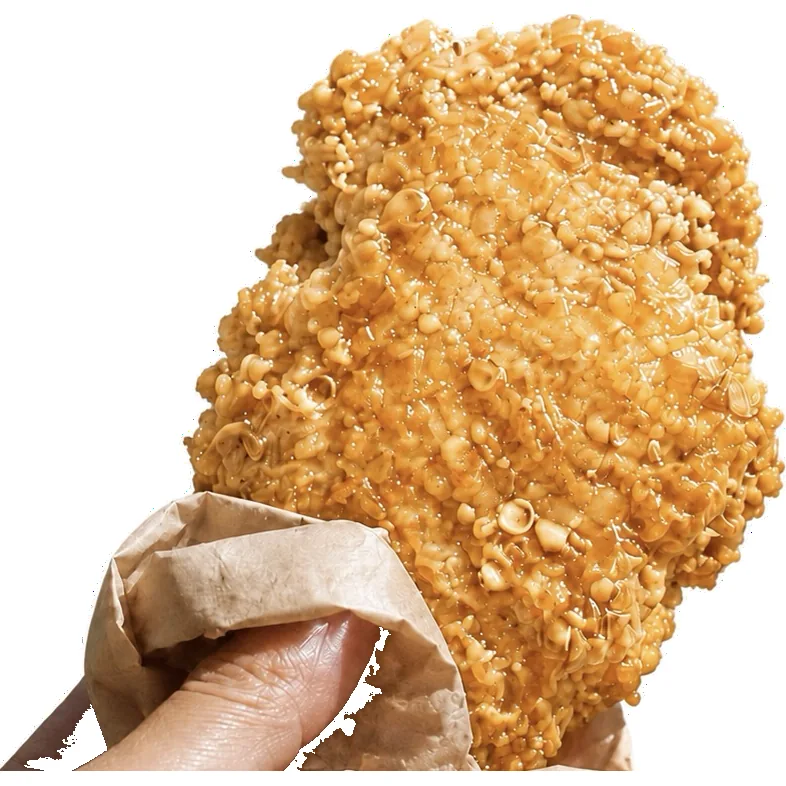
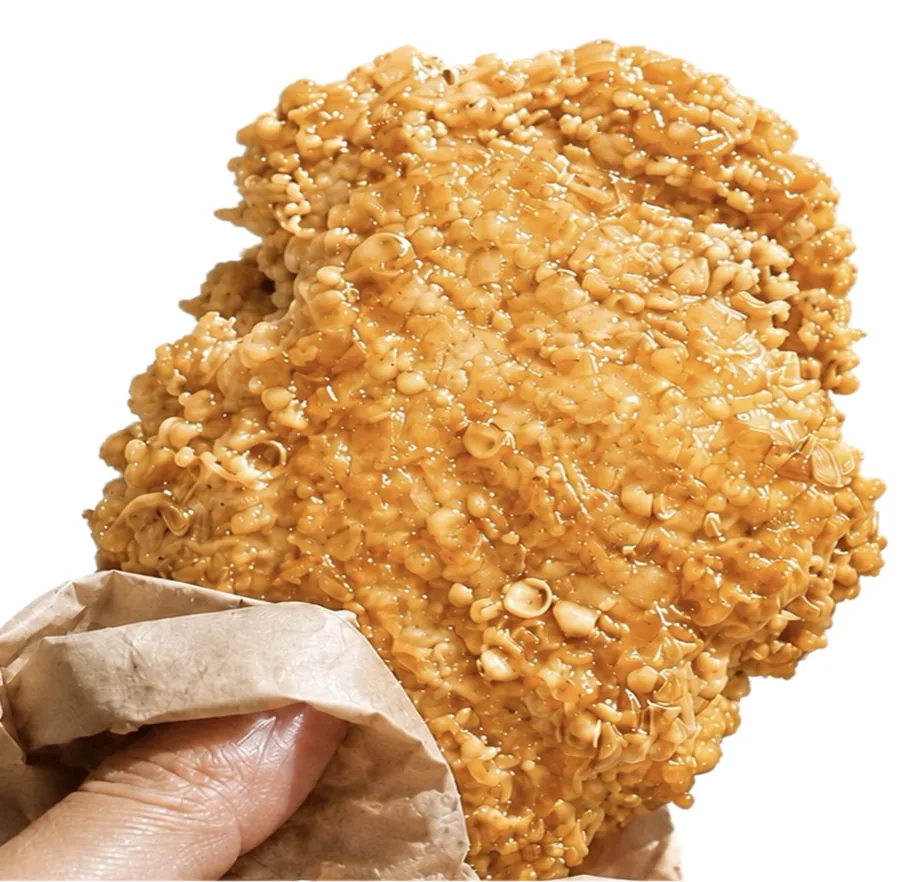
フライドチキン画像差し替え(白背景)／場内エリアの店番号・会場図番号を連番に修正

diff --git a/gourmet-goods-26-27/gourmet.html b/gourmet-goods-26-27/gourmet.html
@@ -526,7 +526,7 @@ footer .em{width:30px; height:30px; margin:0 auto 6px;
 <div id="lb"><span class="x">×</span><div class="box"><div class="big"><div class="demoji"><span>🍧</span></div></div><div class="lbcap" id="lbnm"></div></div></div>
 
 <script>
-const DATA = {"match":{"date":"2026-09-05","kickoff":"19:00","opponent":"高知ユナイテッドSC","venue":"カンセキスタジアムとちぎ","short":"高知"},"hasGoods":true,"goodsReady":false,"hours":{"outside":"15:30〜試合終了","inside":"16:30〜試合終了","cashless":true},"note":"販売エリアは完全キャッシュレス（現金不可）。企画メニューの画像・説明文の出典＝出店店舗の申請書（9/5高知戦）。","sections":[{"key":"stamina","name":"スタミナグルメ","banner":"assets/img/g_bn_stamina.webp"},{"key":"festival","name":"夏祭り","banner":"assets/img/g_bn_natsumatsuri.webp"},{"key":"standard","name":"定番メニュー"}],"items":[{"id":"g1","name":"にんにくマシマシ味噌豚丼","price":"¥1,300","desc":"人気の味噌豚バラ丼をスタミナメニューにアレンジ！にんにくたっぷり「にんにくマシマシ味噌豚丼」で、熱い応援にパワーチャージ！","shop":"pighip","zone":"場外","area":"⑦","e":"🧄","img":"assets/img/gourmet/pighip_ninniku_misodon.webp","section":"stamina"},{"id":"g2","name":"ペンネアラビアータ","price":"¥750","desc":"にんにくたっぷり、ピリ辛の自家製トマトソースのパスタです！","shop":"Sports Café 92","zone":"場外","area":"③","e":"🌶","img":"assets/img/gourmet/sc92_penne.webp","section":"stamina"},{"id":"g3","name":"勝つミートソースパスタ","price":"¥1,111","desc":"勝つしかない！自家製本格ボロネーゼに、豚肉を薄く叩いてチーズ入りパン粉を付けソテーしたミラノ風カツレツを！限定10食！","shop":"Sports Café 92","zone":"場外","area":"③","e":"🍝","img":"assets/img/gourmet/sc92_katsu_meat.webp","section":"stamina"},{"id":"g4","name":"トマトとツナのジェノベーゼパスタ","price":"¥750","desc":"本日の限定パスタは、高知といえばカツオということで、ツナ（カツオ）を自家製バジリコソースで！フレッシュトマトを添えて対戦相手のチームカラーに仕上げました！","shop":"Sports Café 92","zone":"場外","area":"③","e":"🍝","img":"assets/img/gourmet/sc92_genovese.webp","section":"stamina"},{"id":"g5","name":"牛串 ガーリックチップ","price":"¥1,000","desc":"イベントで人気の牛串を秘伝のタレにくぐらせ、炭火で香ばしく焼き上げた至高の一串にガーリックチップをトッピング。タレの旨味とガーリックのパンチが口いっぱいに広がります。当日限定メニュー。","shop":"フードトラック天","zone":"場外","area":"④","e":"🐄","img":"assets/img/gourmet/ten_gyu_garlic.webp","section":"stamina"},{"id":"g6","name":"ガーリックスパイス丼","price":"¥1,300","desc":"ニンニクとスパイスでガッツリ味付けした、疲れも吹き飛ぶチキン丼です！","shop":"月とスパイス","zone":"場外","area":"⑭","e":"🍛","img":"assets/img/gourmet/tsuki_garlic_don.webp","section":"stamina"},{"id":"g7","name":"ダブルガーリックバーガー","price":"¥2,500","desc":"BEEF100%パティ2枚と和風にんにく醤油＆ガーリックマヨのスタミナ満点バーガーです！","shop":"Chronic Burger","zone":"場外","area":"⑮","e":"🍔","img":"assets/img/gourmet/chronic_wgarlic.webp","section":"stamina"},{"id":"g8","name":"カルダモン香る チキンカレー","price":"¥1,000","desc":"スパイスの女王と呼ばれるカルダモンをメインスパイスに使用したカレー。マイルドなチキンカレーに仕上げました。","shop":"カリーハンズ","zone":"場内","area":"⑱","e":"🍛","img":"assets/img/gourmet/hans_chicken_curry.webp","section":"stamina"},{"id":"g9","name":"キーマポークビンダルー","price":"¥1,200","desc":"人気のポークビンダルーをキーマカレーに！ワインビネガーのシャープな酸味と、バルサミコ酢の芳醇な甘みがスパイスと重なり合い、奥行きのある味わいが広がります！","shop":"カリーハンズ","zone":"場内","area":"⑱","e":"🍛","img":"assets/img/gourmet/hans_keema.webp","section":"stamina"},{"id":"g10","name":"スパイシーソーセージ","price":"¥400","desc":"スパイスを使用したピリ辛なソーセージです。","shop":"カリーハンズ","zone":"場内","area":"⑱","e":"🌭","img":"assets/img/gourmet/hans_sausage.webp","section":"stamina"},{"id":"g11","name":"ラッシー","price":"¥400","desc":"インドで親しまれているヨーグルトと牛乳をベースにした、爽やかな酸味とすっきりとした甘みが特徴のドリンクです。","shop":"カリーハンズ","zone":"場内","area":"⑱","e":"🥭","img":"assets/img/gourmet/hans_lassi.webp","section":"stamina"},{"id":"g12","name":"パワフル勝ち点3ド","price":"¥700","desc":"ダシ醬油の勝ち点3ドに、ガツンとにんにくをトッピング。これを食べてパワーをつけて、スタジアムから熱い声援を送ってください‼","shop":"玉子屋てっちゃん","zone":"場外","area":"⑪","e":"🥚","img":"assets/img/gourmet/tama_powerful.webp","section":"stamina"},{"id":"g13","name":"シャカシャカポテト（ガーリック）","price":"¥600","desc":"おなじみのシャカシャカポテトに、ニンニクをきかせた「ガーリック味」が新登場♪ 夏バテ解消にいかがですか！？","shop":"日光乙女チーズ","zone":"場外","area":"⑧","e":"🍟","img":"assets/img/gourmet/otome_shaka_garlic.webp","section":"stamina"},{"id":"g14","name":"ガリバタとんてき串","price":"¥800","desc":"当店名物ローストポークをガーリックバターの効いたとんてきソースで焼き上げました！食べやすいように串打ちしているのでワンハンドで気軽に召し上がれます。","shop":"とちぎのぼんた","zone":"場内","area":"⑳","e":"🍢","img":"assets/img/gourmet/bonta_garibata.webp","section":"stamina"},{"id":"g15","name":"プルコギチーズビビンバ","price":"¥1,200","desc":"自家製甘辛たれに漬け込んだ牛プルコギに、ナムルとキムチを合わせ、たっぷりチーズをかけた韓国風ビビンバ。","shop":"Feel Good Tacos","zone":"場外","area":"⑩","e":"🍚","img":"assets/img/gourmet/fgt_bibimbap.webp","section":"stamina"},{"id":"g16","name":"にんにくマシマシ塩ダレから揚げ","price":"¥756","desc":"スタミナグルメはにんにくマシマシに決まり！かずちゃんち１番人気の国産鶏のから揚げに、にんにくマシマシのゆず風味の塩ダレをかけちゃいました。","shop":"から揚げかずちゃんち","zone":"場外","area":"⑤","e":"🍗","img":"assets/img/gourmet/kazu_ninniku_karaage.webp","section":"stamina"},{"id":"g17","name":"ＢＩＧ勝カレー","price":"¥1,200","desc":"１４０gのBIG勝がド～ンッとのった勝利の勝カレー！食べ応え満点の１品。","shop":"MoguRico","zone":"場内","area":"㉓","e":"🍛","img":"assets/img/gourmet/mogu_katsu_curry.webp","section":"stamina"},{"id":"g18","name":"スモークレッグ","price":"¥850","desc":"りんごチップでじっくり燻製！香ばしさとジューシーさがとまらない、紅茶鴨肉使用♪肉汁じゅわ～っ！やみつきの旨さ！！","shop":"MoguRico","zone":"場内","area":"㉓","e":"🍗","img":"assets/img/gourmet/mogu_leg.webp","section":"stamina"},{"id":"g19","name":"台湾からあげ ダージーパイ","price":"¥800〜","desc":"応援のお供はこれ！顏より大きい⁉ダージーパイはビールとの相性も最高！片手で食べやすく、観戦しながら楽しめるスタグルです。","shop":"O.N.Y","zone":"場外","area":"②","e":"🍗","img":"assets/img/gourmet/ony_dachipai.webp","section":"stamina"},{"id":"g20","name":"汁なし担々麺","price":"¥1,000","desc":"タレから手作り、濃厚ゴマダレの汁なし担々麺をぜひご賞味ください。","shop":"SMILE KITCHEN","zone":"場外","area":"⑬","e":"🍜","img":"assets/img/gourmet/smile_tantan.webp","section":"stamina"},{"id":"g21","name":"ガーリックバターフライドチキン","price":"¥450","desc":"夏も後半戦！食欲もなくなりがちなこの季節、ニンニクのガツンと効いた当店自慢のガリバタチキンで夏を乗り切ろう！","shop":"大谷石窯ピッツァ","zone":"場外","area":"⑥","e":"🍗","img":"assets/img/gourmet/oya_garlic_chicken.webp","section":"stamina"},{"id":"g22","name":"焼き鳥3種（もも・ねぎま・皮）","price":"¥600","desc":"ジューシーなもも、旨みたっぷりなねぎま、香ばしい皮！ 3種を食べ比べ♪","shop":"M's kitchen NEWS","zone":"場内","area":"㉔","e":"🍢","img":"assets/img/gourmet/mens_yakitori.webp","section":"festival"},{"id":"g23","name":"お祭りコッペ","price":"¥900","desc":"夏のお祭りで食べたい定番の屋台グルメ、焼きそば・たこ焼き・から揚げを全部合わせた夢のような一品！！まさにお祭りグルメです。","shop":"JOURNEY","zone":"場内","area":"㉒","e":"🥪","img":"assets/img/gourmet/journey_omatsuri_coppe.webp","section":"festival"},{"id":"g24","name":"みかんかき氷（夏季限定）","price":"¥580","desc":"ストローで飲める特製のカラーゼリー入り。冷たいみかんとツルツルゼリーの食感が楽しい♪夏季限定の商品です！！","shop":"日光乙女チーズ","zone":"場外","area":"⑧","e":"🍧","img":"assets/img/gourmet/otome_mikan.webp","section":"festival"},{"id":"g25","name":"薄皮鯛焼き","price":"¥390","desc":"【フードトラック限定】自家焙煎珈琲のお店がつくる、薄皮パリッとこだわりの鯛焼き。","shop":"木鶏珈琲","zone":"場内","area":"㉗","e":"🐟","img":"assets/img/gourmet/mokkei_taiyaki.webp","section":"festival"},{"id":"g26","name":"栃木SCカラー ビッグかき氷","price":"¥500","desc":"毎試合大人気のビッグかき氷！！暑いスタジアムでクールダウン！ふわふわ氷にたっぷりシロップをかけた、ボリューム満点のBigサイズ。","shop":"O.N.Y","zone":"場外","area":"②","e":"🍧","img":"assets/img/gourmet/ony_sc_kori.webp","section":"festival"},{"id":"i31","name":"チキンオーバーライス","price":"¥1,000","desc":"ホットソースとホワイトソースが作り出すスパイシー","shop":"Feel Good Tacos","zone":"場外","area":"⑩","e":"🍚","img":"assets/img/gourmet/fgt_chicken.webp","section":"standard"},{"id":"i32","name":"味噌豚カルビ丼","price":"¥1,500","desc":"栃木県野木町産コシヒカリと千葉県佐倉市の老舗味噌蔵","shop":"pighip","zone":"場外","area":"⑦","e":"🍚","img":"assets/img/gourmet/pighip_misodon.webp","section":"standard"},{"id":"i35","name":"玉子焼き","price":"¥700","desc":"玉子屋創業70年、昔ながらの美味しい玉子焼き","shop":"玉子屋てっちゃん","zone":"場外","area":"⑪","e":"🍳","img":"assets/img/gourmet/tamagoya_tamagoyaki.webp","section":"standard"},{"id":"i36","name":"ジェラート","price":"¥500","desc":"日光乙女チーズのジェラート","shop":"日光乙女チーズ","zone":"場外","area":"⑧","e":"🍨","img":"assets/img/gourmet/otome_gelato.webp","section":"standard"},{"id":"i38","name":"レモネード","price":"¥660〜","desc":"豊富な種類のレモネード、アルコール入りもあります","shop":"ねこにレモン","zone":"場外","area":"⑨","e":"🍋","img":"assets/img/gourmet/neko_lemonade.webp","section":"standard"},{"id":"i39","name":"カットりんご飴","price":"¥918","desc":"市場で仕入れる新鮮りんご","shop":"LUANA","zone":"場内","area":"⑰","e":"🍎","img":"assets/img/gourmet/luana_ringoame.webp","section":"standard"},{"id":"i41","name":"カツカレーライス","price":"¥1,200","desc":"勝つ（カツ）カレーで勝利を呼び込め","shop":"MoguRico","zone":"場内","area":"㉓","e":"🍛","img":"assets/img/gourmet/mogu_katsucurry.webp","section":"standard"},{"id":"i42","name":"必勝！！鯖サンド！！","price":"¥1,000","desc":"ボリューム満点鯖サンド！具材たっぷり特製タルタルソース","shop":"M's kitchen NEWS","zone":"場内","area":"㉔","e":"🥪","img":"assets/img/gourmet/mens_sabasand.webp","section":"standard"}],"areas":[{"no":"①","_場所番号":"①","zone":"場外","shop":"ケバブキッチン","menu":["ケバブサンド","ケバブラップ","おつまみケバブ"],"drinks":[],"x":0.322,"y":0.917,"_目印":"Aゲート前"},{"no":"②","_場所番号":"②","zone":"場外","shop":"O.N.Y","menu":["台湾からあげ ダージーパイ","トルティーヤドッグ","ビッグかき氷"],"drinks":["ice","alc"],"x":0.364,"y":0.9244,"_目印":"Aゲート前"},{"no":"③","_場所番号":"③","zone":"場外","shop":"Sports Café 92","menu":["勝つミートソースパスタ","ペンネアラビアータ","ミートソースドリア"],"drinks":["soft","ice","alc"],"x":0.412,"y":0.9281,"_目印":"Aゲート前（階段の手前）"},{"no":"④","_場所番号":"④","zone":"場外","shop":"フードトラック天","menu":["牛串（ガーリック）","ビックねぎま串","やきとり丼"],"drinks":["soft","ice","alc"],"x":0.478,"y":0.9194,"_目印":"Aゲート前（階段の先）"},{"no":"⑤","_場所番号":"⑤","zone":"場外","shop":"から揚げかずちゃんち","menu":["にんにくマシマシ塩ダレから揚げ","トッキーチキン勝","国産鶏のから揚げ"],"drinks":["soft","ice","alc"],"x":0.518,"y":0.9126,"_目印":"Aゲート前"},{"no":"⑥","_場所番号":"⑥","zone":"場外","shop":"大谷石窯ピッツァ","menu":["マルゲリータ","ガーリックバターフライドチキン","ハニーゴルゴンゾーラ"],"drinks":["ice","alc"],"x":0.556,"y":0.9032,"_目印":"Aゲート前"},{"no":"⑦","_場所番号":"⑦","zone":"場外","shop":"pighip","menu":["にんにくマシマシ味噌豚丼","味噌豚カルビ丼","味噌豚カルビ串"],"drinks":["soft","alc"],"x":0.593,"y":0.8902,"_目印":"Aゲート前"},{"no":"⑧","_場所番号":"⑧","zone":"場外","shop":"日光乙女チーズ","menu":["みかんかき氷","シャカシャカポテト（ガーリック）","ジェラート"],"drinks":["ice"],"x":0.63,"y":0.8691,"_目印":"Aゲート前"},{"no":"⑨","_場所番号":"⑨","zone":"場外","shop":"ねこにレモン","menu":["レモネード","生搾りレモンサワー","カチコチドリンク"],"drinks":["soft","alc"],"x":0.7423,"y":0.7545,"_目印":"Bゲート外側"},{"no":"⑩","_場所番号":"⑩","zone":"場外","shop":"Feel Good Tacos","menu":["プルコギチーズビビンバ","チキンオーバーライス","ポークカルニータス"],"drinks":["ice","alc"],"x":0.7771,"y":0.6933,"_目印":"Bゲート外側"},{"no":"⑪","_場所番号":"⑪","zone":"場外","shop":"玉子屋てっちゃん","menu":["パワフル勝ち点3ド","玉子焼き（ダシ醤油）","オムライス"],"drinks":["ice","alc"],"x":0.8036,"y":0.647,"_目印":"Cゲート外側"},{"no":"⑫","_場所番号":"⑫","zone":"場外","shop":"ダネイデ","menu":["ブラジル丼","ピカーニャ","サウガドス"],"drinks":["soft","alc"],"x":0.833,"y":0.505,"_目印":"アプローチデッキ入口"},{"no":"⑬","_場所番号":"⑬","zone":"場外","shop":"SMILE KITCHEN","menu":["汁なし担々麺","カツシウマイ","唐揚げ香味だれ"],"drinks":["soft","alc"],"x":0.849,"y":0.4387,"_目印":"アプローチデッキ"},{"no":"⑭","_場所番号":"⑭","zone":"場外","shop":"月とスパイス","menu":["ガーリックスパイス丼","3種あいがけカレー","チキンカレー"],"drinks":["soft"],"x":0.891,"y":0.4387,"_目印":"アプローチデッキ"},{"no":"⑮","_場所番号":"⑮","zone":"場外","shop":"Chronic Burger","menu":["ダブルガーリックバーガー","チーズバーガー","ハンバーガー"],"drinks":[],"x":0.933,"y":0.4387,"_目印":"アプローチデッキ"},{"no":"⑯","_場所番号":"⑯","zone":"場外","shop":"菊ちゃんラーメン","menu":["チャーシュー丼","ネギ塩チャーシュー丼","イモフライ"],"drinks":["alc"],"x":0.975,"y":0.4387,"_目印":"アプローチデッキ"},{"no":"⑰","_場所番号":"⑰","zone":"場内","shop":"LUANA","menu":["カットりんご飴","唐揚げ棒","フランクフルト"],"drinks":["soft","ice","alc"],"x":0.6234,"y":0.7888,"_目印":"B1コンコース"},{"no":"⑱","_場所番号":"⑱","zone":"場内","shop":"カリーハンズ","menu":["カルダモン香るチキンカレー","キーマポークビンダルー","スパイシーソーセージ"],"drinks":["soft","alc"],"x":0.6555,"y":0.757,"_目印":"B1コンコース"},{"no":"⑳","_場所番号":"⑳","zone":"場内","shop":"とちぎのぼんた","menu":["ガリバタとんてき串","ローストポーク","もつ煮込み"],"drinks":["soft","alc"],"x":0.7797,"y":0.5081,"_目印":"C1コンコース"},{"no":"㉒","_場所番号":"㉒","zone":"場内","shop":"JOURNEY","menu":["お祭りコッペ","パストラミポークコッペ","黒毛和牛メンチカツコッペ"],"drinks":["soft","alc"],"x":0.6219,"y":0.1417,"_目印":"D2コンコース"},{"no":"㉓","_場所番号":"㉓","zone":"場内","shop":"MoguRico","menu":["ＢＩＧ勝カレー","カツカレーライス","揚げたこ焼き"],"drinks":["soft","alc"],"x":0.4845,"y":0.1083,"_目印":"E1コンコース"},{"no":"㉔","_場所番号":"㉔","zone":"場内","shop":"M's kitchen NEWS","menu":["焼き鳥3種","鯖サンド","キューバサンド"],"drinks":["soft","ice","alc"],"x":0.3951,"y":0.1079,"_目印":"E2コンコース"},{"no":"㉗","_場所番号":"㉗","zone":"場内","shop":"木鶏珈琲","menu":["薄皮鯛焼き","水出しアイスコーヒー","カフェラテ"],"drinks":["soft","ice"],"x":0.2442,"y":0.7698,"_目印":"H2コンコース"}],"maps":[{"img":"assets/img/g_map_gourmet_0804.webp","caption":"会場図（番号は販売エリア）","fit":"whole","role":"primary","onimage":"ホームゲームの開放ゲートは A・C・G"}],"gates":[{"name":"A","x":0.4658,"y":0.8757},{"name":"B","x":0.7,"y":0.7693},{"name":"C","x":0.8155,"y":0.4648},{"name":"D","x":0.7002,"y":0.2075},{"name":"E","x":0.4661,"y":0.0928},{"name":"F","x":0.1928,"y":0.2066},{"name":"G","x":0.087,"y":0.4639},{"name":"H","x":0.1824,"y":0.7674}],"brand":{"name":"BISTRO TOCKEY","sub":"栃木SC フードエリア","logo":"assets/img/bistro_tockey.svg","bg":"#F4D14D","logoW":"124px","logoMax":"38%"},"payment":{"lead":"キャッシュレスでお会計もスムーズ","short":"お支払いはキャッシュレスのみです。","body":"クレジットカード・スマホ決済・電子マネーがそのまま使えます。現金はご利用いただけません。","note":"現金をお持ちの方は、当日場内の専用ブースでプリペイドカードをご用意しています。","guideUrl":"#"},"_menu説明":"areas[].menu＝会場掲示マップに出す看板メニュー（3品まで）。areas[].drinks＝ソフトドリンク(soft)/アイス・氷(ice)/アルコール(alc)の取扱。どちらもメニュー申請書から自動で拾って手直ししたもの。掲示物の文言を変えたいときはここを直す。","_場所番号について":"9/5高知戦から、協会「202627_BISTRO TOCKEY_レイアウトフォーマット」準拠の新番号①〜㉗で運用。座標・場内外・目印は出店場所マスタから流し込む。"};
+const DATA = {"match":{"date":"2026-09-05","kickoff":"19:00","opponent":"高知ユナイテッドSC","venue":"カンセキスタジアムとちぎ","short":"高知"},"hasGoods":true,"goodsReady":false,"hours":{"outside":"15:30〜試合終了","inside":"16:30〜試合終了","cashless":true},"note":"販売エリアは完全キャッシュレス（現金不可）。企画メニューの画像・説明文の出典＝出店店舗の申請書（9/5高知戦）。","sections":[{"key":"stamina","name":"スタミナグルメ","banner":"assets/img/g_bn_stamina.webp"},{"key":"festival","name":"夏祭り","banner":"assets/img/g_bn_natsumatsuri.webp"},{"key":"standard","name":"定番メニュー"}],"items":[{"id":"g1","name":"にんにくマシマシ味噌豚丼","price":"¥1,300","desc":"人気の味噌豚バラ丼をスタミナメニューにアレンジ！にんにくたっぷり「にんにくマシマシ味噌豚丼」で、熱い応援にパワーチャージ！","shop":"pighip","zone":"場外","area":"⑦","e":"🧄","img":"assets/img/gourmet/pighip_ninniku_misodon.webp","section":"stamina"},{"id":"g2","name":"ペンネアラビアータ","price":"¥750","desc":"にんにくたっぷり、ピリ辛の自家製トマトソースのパスタです！","shop":"Sports Café 92","zone":"場外","area":"③","e":"🌶","img":"assets/img/gourmet/sc92_penne.webp","section":"stamina"},{"id":"g3","name":"勝つミートソースパスタ","price":"¥1,111","desc":"勝つしかない！自家製本格ボロネーゼに、豚肉を薄く叩いてチーズ入りパン粉を付けソテーしたミラノ風カツレツを！限定10食！","shop":"Sports Café 92","zone":"場外","area":"③","e":"🍝","img":"assets/img/gourmet/sc92_katsu_meat.webp","section":"stamina"},{"id":"g4","name":"トマトとツナのジェノベーゼパスタ","price":"¥750","desc":"本日の限定パスタは、高知といえばカツオということで、ツナ（カツオ）を自家製バジリコソースで！フレッシュトマトを添えて対戦相手のチームカラーに仕上げました！","shop":"Sports Café 92","zone":"場外","area":"③","e":"🍝","img":"assets/img/gourmet/sc92_genovese.webp","section":"stamina"},{"id":"g5","name":"牛串 ガーリックチップ","price":"¥1,000","desc":"イベントで人気の牛串を秘伝のタレにくぐらせ、炭火で香ばしく焼き上げた至高の一串にガーリックチップをトッピング。タレの旨味とガーリックのパンチが口いっぱいに広がります。当日限定メニュー。","shop":"フードトラック天","zone":"場外","area":"④","e":"🐄","img":"assets/img/gourmet/ten_gyu_garlic.webp","section":"stamina"},{"id":"g6","name":"ガーリックスパイス丼","price":"¥1,300","desc":"ニンニクとスパイスでガッツリ味付けした、疲れも吹き飛ぶチキン丼です！","shop":"月とスパイス","zone":"場外","area":"⑭","e":"🍛","img":"assets/img/gourmet/tsuki_garlic_don.webp","section":"stamina"},{"id":"g7","name":"ダブルガーリックバーガー","price":"¥2,500","desc":"BEEF100%パティ2枚と和風にんにく醤油＆ガーリックマヨのスタミナ満点バーガーです！","shop":"Chronic Burger","zone":"場外","area":"⑮","e":"🍔","img":"assets/img/gourmet/chronic_wgarlic.webp","section":"stamina"},{"id":"g8","name":"カルダモン香る チキンカレー","price":"¥1,000","desc":"スパイスの女王と呼ばれるカルダモンをメインスパイスに使用したカレー。マイルドなチキンカレーに仕上げました。","shop":"カリーハンズ","zone":"場内","area":"⑱","e":"🍛","img":"assets/img/gourmet/hans_chicken_curry.webp","section":"stamina"},{"id":"g9","name":"キーマポークビンダルー","price":"¥1,200","desc":"人気のポークビンダルーをキーマカレーに！ワインビネガーのシャープな酸味と、バルサミコ酢の芳醇な甘みがスパイスと重なり合い、奥行きのある味わいが広がります！","shop":"カリーハンズ","zone":"場内","area":"⑱","e":"🍛","img":"assets/img/gourmet/hans_keema.webp","section":"stamina"},{"id":"g10","name":"スパイシーソーセージ","price":"¥400","desc":"スパイスを使用したピリ辛なソーセージです。","shop":"カリーハンズ","zone":"場内","area":"⑱","e":"🌭","img":"assets/img/gourmet/hans_sausage.webp","section":"stamina"},{"id":"g11","name":"ラッシー","price":"¥400","desc":"インドで親しまれているヨーグルトと牛乳をベースにした、爽やかな酸味とすっきりとした甘みが特徴のドリンクです。","shop":"カリーハンズ","zone":"場内","area":"⑱","e":"🥭","img":"assets/img/gourmet/hans_lassi.webp","section":"stamina"},{"id":"g12","name":"パワフル勝ち点3ド","price":"¥700","desc":"ダシ醬油の勝ち点3ドに、ガツンとにんにくをトッピング。これを食べてパワーをつけて、スタジアムから熱い声援を送ってください‼","shop":"玉子屋てっちゃん","zone":"場外","area":"⑪","e":"🥚","img":"assets/img/gourmet/tama_powerful.webp","section":"stamina"},{"id":"g13","name":"シャカシャカポテト（ガーリック）","price":"¥600","desc":"おなじみのシャカシャカポテトに、ニンニクをきかせた「ガーリック味」が新登場♪ 夏バテ解消にいかがですか！？","shop":"日光乙女チーズ","zone":"場外","area":"⑧","e":"🍟","img":"assets/img/gourmet/otome_shaka_garlic.webp","section":"stamina"},{"id":"g14","name":"ガリバタとんてき串","price":"¥800","desc":"当店名物ローストポークをガーリックバターの効いたとんてきソースで焼き上げました！食べやすいように串打ちしているのでワンハンドで気軽に召し上がれます。","shop":"とちぎのぼんた","zone":"場内","area":"⑲","e":"🍢","img":"assets/img/gourmet/bonta_garibata.webp","section":"stamina"},{"id":"g15","name":"プルコギチーズビビンバ","price":"¥1,200","desc":"自家製甘辛たれに漬け込んだ牛プルコギに、ナムルとキムチを合わせ、たっぷりチーズをかけた韓国風ビビンバ。","shop":"Feel Good Tacos","zone":"場外","area":"⑩","e":"🍚","img":"assets/img/gourmet/fgt_bibimbap.webp","section":"stamina"},{"id":"g16","name":"にんにくマシマシ塩ダレから揚げ","price":"¥756","desc":"スタミナグルメはにんにくマシマシに決まり！かずちゃんち１番人気の国産鶏のから揚げに、にんにくマシマシのゆず風味の塩ダレをかけちゃいました。","shop":"から揚げかずちゃんち","zone":"場外","area":"⑤","e":"🍗","img":"assets/img/gourmet/kazu_ninniku_karaage.webp","section":"stamina"},{"id":"g17","name":"ＢＩＧ勝カレー","price":"¥1,200","desc":"１４０gのBIG勝がド～ンッとのった勝利の勝カレー！食べ応え満点の１品。","shop":"MoguRico","zone":"場内","area":"㉑","e":"🍛","img":"assets/img/gourmet/mogu_katsu_curry.webp","section":"stamina"},{"id":"g18","name":"スモークレッグ","price":"¥850","desc":"りんごチップでじっくり燻製！香ばしさとジューシーさがとまらない、紅茶鴨肉使用♪肉汁じゅわ～っ！やみつきの旨さ！！","shop":"MoguRico","zone":"場内","area":"㉑","e":"🍗","img":"assets/img/gourmet/mogu_leg.webp","section":"stamina"},{"id":"g19","name":"台湾からあげ ダージーパイ","price":"¥800〜","desc":"応援のお供はこれ！顏より大きい⁉ダージーパイはビールとの相性も最高！片手で食べやすく、観戦しながら楽しめるスタグルです。","shop":"O.N.Y","zone":"場外","area":"②","e":"🍗","img":"assets/img/gourmet/ony_dachipai.webp","section":"stamina"},{"id":"g20","name":"汁なし担々麺","price":"¥1,000","desc":"タレから手作り、濃厚ゴマダレの汁なし担々麺をぜひご賞味ください。","shop":"SMILE KITCHEN","zone":"場外","area":"⑬","e":"🍜","img":"assets/img/gourmet/smile_tantan.webp","section":"stamina"},{"id":"g21","name":"ガーリックバターフライドチキン","price":"¥450","desc":"夏も後半戦！食欲もなくなりがちなこの季節、ニンニクのガツンと効いた当店自慢のガリバタチキンで夏を乗り切ろう！","shop":"大谷石窯ピッツァ","zone":"場外","area":"⑥","e":"🍗","img":"assets/img/gourmet/oya_garlic_chicken.webp","section":"stamina"},{"id":"g22","name":"焼き鳥3種（もも・ねぎま・皮）","price":"¥600","desc":"ジューシーなもも、旨みたっぷりなねぎま、香ばしい皮！ 3種を食べ比べ♪","shop":"M's kitchen NEWS","zone":"場内","area":"㉒","e":"🍢","img":"assets/img/gourmet/mens_yakitori.webp","section":"festival"},{"id":"g23","name":"お祭りコッペ","price":"¥900","desc":"夏のお祭りで食べたい定番の屋台グルメ、焼きそば・たこ焼き・から揚げを全部合わせた夢のような一品！！まさにお祭りグルメです。","shop":"JOURNEY","zone":"場内","area":"⑳","e":"🥪","img":"assets/img/gourmet/journey_omatsuri_coppe.webp","section":"festival"},{"id":"g24","name":"みかんかき氷（夏季限定）","price":"¥580","desc":"ストローで飲める特製のカラーゼリー入り。冷たいみかんとツルツルゼリーの食感が楽しい♪夏季限定の商品です！！","shop":"日光乙女チーズ","zone":"場外","area":"⑧","e":"🍧","img":"assets/img/gourmet/otome_mikan.webp","section":"festival"},{"id":"g25","name":"薄皮鯛焼き","price":"¥390","desc":"【フードトラック限定】自家焙煎珈琲のお店がつくる、薄皮パリッとこだわりの鯛焼き。","shop":"木鶏珈琲","zone":"場内","area":"㉓","e":"🐟","img":"assets/img/gourmet/mokkei_taiyaki.webp","section":"festival"},{"id":"g26","name":"栃木SCカラー ビッグかき氷","price":"¥500","desc":"毎試合大人気のビッグかき氷！！暑いスタジアムでクールダウン！ふわふわ氷にたっぷりシロップをかけた、ボリューム満点のBigサイズ。","shop":"O.N.Y","zone":"場外","area":"②","e":"🍧","img":"assets/img/gourmet/ony_sc_kori.webp","section":"festival"},{"id":"i31","name":"チキンオーバーライス","price":"¥1,000","desc":"ホットソースとホワイトソースが作り出すスパイシー","shop":"Feel Good Tacos","zone":"場外","area":"⑩","e":"🍚","img":"assets/img/gourmet/fgt_chicken.webp","section":"standard"},{"id":"i32","name":"味噌豚カルビ丼","price":"¥1,500","desc":"栃木県野木町産コシヒカリと千葉県佐倉市の老舗味噌蔵","shop":"pighip","zone":"場外","area":"⑦","e":"🍚","img":"assets/img/gourmet/pighip_misodon.webp","section":"standard"},{"id":"i35","name":"玉子焼き","price":"¥700","desc":"玉子屋創業70年、昔ながらの美味しい玉子焼き","shop":"玉子屋てっちゃん","zone":"場外","area":"⑪","e":"🍳","img":"assets/img/gourmet/tamagoya_tamagoyaki.webp","section":"standard"},{"id":"i36","name":"ジェラート","price":"¥500","desc":"日光乙女チーズのジェラート","shop":"日光乙女チーズ","zone":"場外","area":"⑧","e":"🍨","img":"assets/img/gourmet/otome_gelato.webp","section":"standard"},{"id":"i38","name":"レモネード","price":"¥660〜","desc":"豊富な種類のレモネード、アルコール入りもあります","shop":"ねこにレモン","zone":"場外","area":"⑨","e":"🍋","img":"assets/img/gourmet/neko_lemonade.webp","section":"standard"},{"id":"i39","name":"カットりんご飴","price":"¥918","desc":"市場で仕入れる新鮮りんご","shop":"LUANA","zone":"場内","area":"⑰","e":"🍎","img":"assets/img/gourmet/luana_ringoame.webp","section":"standard"},{"id":"i41","name":"カツカレーライス","price":"¥1,200","desc":"勝つ（カツ）カレーで勝利を呼び込め","shop":"MoguRico","zone":"場内","area":"㉑","e":"🍛","img":"assets/img/gourmet/mogu_katsucurry.webp","section":"standard"},{"id":"i42","name":"必勝！！鯖サンド！！","price":"¥1,000","desc":"ボリューム満点鯖サンド！具材たっぷり特製タルタルソース","shop":"M's kitchen NEWS","zone":"場内","area":"㉒","e":"🥪","img":"assets/img/gourmet/mens_sabasand.webp","section":"standard"}],"areas":[{"no":"①","_場所番号":"①","zone":"場外","shop":"ケバブキッチン","menu":["ケバブサンド","ケバブラップ","おつまみケバブ"],"drinks":[],"x":0.322,"y":0.917,"_目印":"Aゲート前"},{"no":"②","_場所番号":"②","zone":"場外","shop":"O.N.Y","menu":["台湾からあげ ダージーパイ","トルティーヤドッグ","ビッグかき氷"],"drinks":["ice","alc"],"x":0.364,"y":0.9244,"_目印":"Aゲート前"},{"no":"③","_場所番号":"③","zone":"場外","shop":"Sports Café 92","menu":["勝つミートソースパスタ","ペンネアラビアータ","ミートソースドリア"],"drinks":["soft","ice","alc"],"x":0.412,"y":0.9281,"_目印":"Aゲート前（階段の手前）"},{"no":"④","_場所番号":"④","zone":"場外","shop":"フードトラック天","menu":["牛串（ガーリック）","ビックねぎま串","やきとり丼"],"drinks":["soft","ice","alc"],"x":0.478,"y":0.9194,"_目印":"Aゲート前（階段の先）"},{"no":"⑤","_場所番号":"⑤","zone":"場外","shop":"から揚げかずちゃんち","menu":["にんにくマシマシ塩ダレから揚げ","トッキーチキン勝","国産鶏のから揚げ"],"drinks":["soft","ice","alc"],"x":0.518,"y":0.9126,"_目印":"Aゲート前"},{"no":"⑥","_場所番号":"⑥","zone":"場外","shop":"大谷石窯ピッツァ","menu":["マルゲリータ","ガーリックバターフライドチキン","ハニーゴルゴンゾーラ"],"drinks":["ice","alc"],"x":0.556,"y":0.9032,"_目印":"Aゲート前"},{"no":"⑦","_場所番号":"⑦","zone":"場外","shop":"pighip","menu":["にんにくマシマシ味噌豚丼","味噌豚カルビ丼","味噌豚カルビ串"],"drinks":["soft","alc"],"x":0.593,"y":0.8902,"_目印":"Aゲート前"},{"no":"⑧","_場所番号":"⑧","zone":"場外","shop":"日光乙女チーズ","menu":["みかんかき氷","シャカシャカポテト（ガーリック）","ジェラート"],"drinks":["ice"],"x":0.63,"y":0.8691,"_目印":"Aゲート前"},{"no":"⑨","_場所番号":"⑨","zone":"場外","shop":"ねこにレモン","menu":["レモネード","生搾りレモンサワー","カチコチドリンク"],"drinks":["soft","alc"],"x":0.7423,"y":0.7545,"_目印":"Bゲート外側"},{"no":"⑩","_場所番号":"⑩","zone":"場外","shop":"Feel Good Tacos","menu":["プルコギチーズビビンバ","チキンオーバーライス","ポークカルニータス"],"drinks":["ice","alc"],"x":0.7771,"y":0.6933,"_目印":"Bゲート外側"},{"no":"⑪","_場所番号":"⑪","zone":"場外","shop":"玉子屋てっちゃん","menu":["パワフル勝ち点3ド","玉子焼き（ダシ醤油）","オムライス"],"drinks":["ice","alc"],"x":0.8036,"y":0.647,"_目印":"Cゲート外側"},{"no":"⑫","_場所番号":"⑫","zone":"場外","shop":"ダネイデ","menu":["ブラジル丼","ピカーニャ","サウガドス"],"drinks":["soft","alc"],"x":0.833,"y":0.505,"_目印":"アプローチデッキ入口"},{"no":"⑬","_場所番号":"⑬","zone":"場外","shop":"SMILE KITCHEN","menu":["汁なし担々麺","カツシウマイ","唐揚げ香味だれ"],"drinks":["soft","alc"],"x":0.849,"y":0.4387,"_目印":"アプローチデッキ"},{"no":"⑭","_場所番号":"⑭","zone":"場外","shop":"月とスパイス","menu":["ガーリックスパイス丼","3種あいがけカレー","チキンカレー"],"drinks":["soft"],"x":0.891,"y":0.4387,"_目印":"アプローチデッキ"},{"no":"⑮","_場所番号":"⑮","zone":"場外","shop":"Chronic Burger","menu":["ダブルガーリックバーガー","チーズバーガー","ハンバーガー"],"drinks":[],"x":0.933,"y":0.4387,"_目印":"アプローチデッキ"},{"no":"⑯","_場所番号":"⑯","zone":"場外","shop":"菊ちゃんラーメン","menu":["チャーシュー丼","ネギ塩チャーシュー丼","イモフライ"],"drinks":["alc"],"x":0.975,"y":0.4387,"_目印":"アプローチデッキ"},{"no":"⑰","_場所番号":"⑰","zone":"場内","shop":"LUANA","menu":["カットりんご飴","唐揚げ棒","フランクフルト"],"drinks":["soft","ice","alc"],"x":0.6234,"y":0.7888,"_目印":"B1コンコース"},{"no":"⑱","_場所番号":"⑱","zone":"場内","shop":"カリーハンズ","menu":["カルダモン香るチキンカレー","キーマポークビンダルー","スパイシーソーセージ"],"drinks":["soft","alc"],"x":0.6555,"y":0.757,"_目印":"B1コンコース"},{"no":"⑲","_場所番号":"⑳","zone":"場内","shop":"とちぎのぼんた","menu":["ガリバタとんてき串","ローストポーク","もつ煮込み"],"drinks":["soft","alc"],"x":0.7797,"y":0.5081,"_目印":"C1コンコース"},{"no":"⑳","_場所番号":"㉒","zone":"場内","shop":"JOURNEY","menu":["お祭りコッペ","パストラミポークコッペ","黒毛和牛メンチカツコッペ"],"drinks":["soft","alc"],"x":0.6219,"y":0.1417,"_目印":"D2コンコース"},{"no":"㉑","_場所番号":"㉓","zone":"場内","shop":"MoguRico","menu":["ＢＩＧ勝カレー","カツカレーライス","揚げたこ焼き"],"drinks":["soft","alc"],"x":0.4845,"y":0.1083,"_目印":"E1コンコース"},{"no":"㉒","_場所番号":"㉔","zone":"場内","shop":"M's kitchen NEWS","menu":["焼き鳥3種","鯖サンド","キューバサンド"],"drinks":["soft","ice","alc"],"x":0.3951,"y":0.1079,"_目印":"E2コンコース"},{"no":"㉓","_場所番号":"㉗","zone":"場内","shop":"木鶏珈琲","menu":["薄皮鯛焼き","水出しアイスコーヒー","カフェラテ"],"drinks":["soft","ice"],"x":0.2442,"y":0.7698,"_目印":"H2コンコース"}],"maps":[{"img":"assets/img/g_map_gourmet_0804.webp","caption":"会場図（番号は販売エリア）","fit":"whole","role":"primary","onimage":"ホームゲームの開放ゲートは A・C・G"}],"gates":[{"name":"A","x":0.4658,"y":0.8757},{"name":"B","x":0.7,"y":0.7693},{"name":"C","x":0.8155,"y":0.4648},{"name":"D","x":0.7002,"y":0.2075},{"name":"E","x":0.4661,"y":0.0928},{"name":"F","x":0.1928,"y":0.2066},{"name":"G","x":0.087,"y":0.4639},{"name":"H","x":0.1824,"y":0.7674}],"brand":{"name":"BISTRO TOCKEY","sub":"栃木SC フードエリア","logo":"assets/img/bistro_tockey.svg","bg":"#F4D14D","logoW":"124px","logoMax":"38%"},"payment":{"lead":"キャッシュレスでお会計もスムーズ","short":"お支払いはキャッシュレスのみです。","body":"クレジットカード・スマホ決済・電子マネーがそのまま使えます。現金はご利用いただけません。","note":"現金をお持ちの方は、当日場内の専用ブースでプリペイドカードをご用意しています。","guideUrl":"#"},"_menu説明":"areas[].menu＝会場掲示マップに出す看板メニュー（3品まで）。areas[].drinks＝ソフトドリンク(soft)/アイス・氷(ice)/アルコール(alc)の取扱。どちらもメニュー申請書から自動で拾って手直ししたもの。掲示物の文言を変えたいときはここを直す。","_場所番号について":"9/5高知戦から、協会「202627_BISTRO TOCKEY_レイアウトフォーマット」準拠の新番号①〜㉗で運用。座標・場内外・目印は出店場所マスタから流し込む。"};
 
   function esc(s){return (s||'').replace(/&/g,'&amp;').replace(/</g,'&lt;').replace(/>/g,'&gt;').replace(/"/g,'&quot;');}
   function phInner(it){
